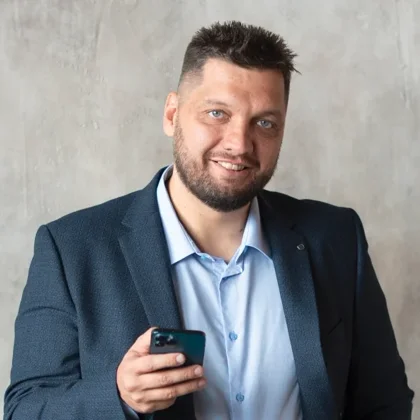
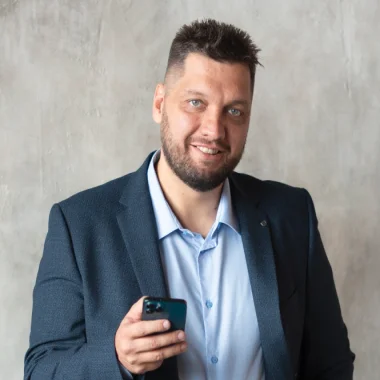
Уменьшено фото: 19KB → 15KB (380x380)

diff --git a/index.html b/index.html
@@ -334,7 +334,7 @@
         <header class="header">
             <div class="photo-section">
                 <div class="photo-container">
-                    <img src="photo.webp" alt="Роман Воробьёв — модератор форум-групп" width="420" height="420" fetchpriority="high">
+                    <img src="photo.webp" alt="Роман Воробьёв — модератор форум-групп" width="380" height="380" fetchpriority="high">
                 </div>
                 <div class="header-text">
                     <h1>РОМАН ВОРОБЬЁВ</h1>
